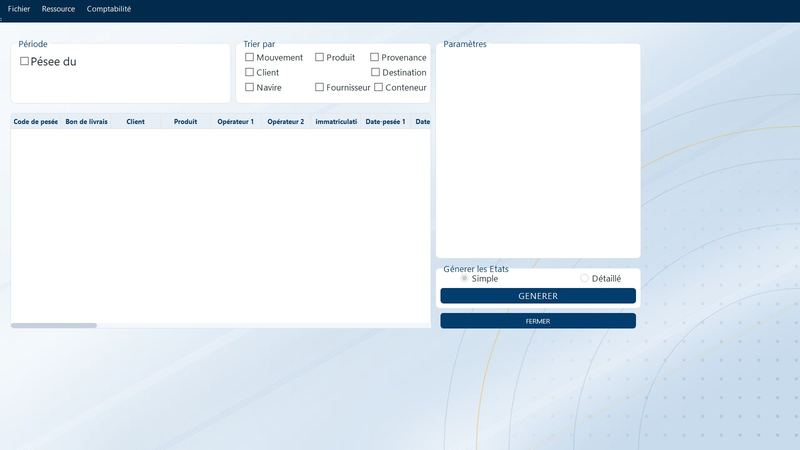
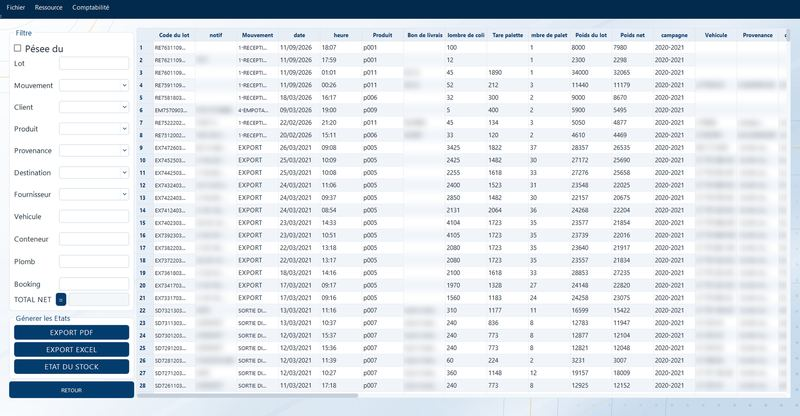
SoftWEIGHT : captures structurees en version Pesage par lot en usine + module comptable
Retrait des vues pont-bascule et pesees en attente ; nouvelle capture des
etats (colonnes nominatives floutees) ; galerie generique par version
(data-set) pour accueillir la version pont-bascule.

Claude-Session: https://claude.ai/code/session_018ie5uL5v7D66H8UK9hWu6d

diff --git a/kenjitech/softweight/assets/sw.js b/kenjitech/softweight/assets/sw.js
@@ -138,15 +138,12 @@ $('#demoForm').addEventListener('submit',e=>{e.preventDefault();const f=e.target
 const lines=[...f.querySelectorAll('input,select,textarea')].filter(x=>x.value.trim()).map(x=>{const l=x.closest('label');return (l?l.childNodes[0].textContent.trim():x.name)+' : '+x.value.trim()});
 const txt='Bonjour KENJITECH,\n'+lines.join('\n');window.open('https://wa.me/237697787475?text='+encodeURIComponent(txt),'_blank','noopener');
 const s=$('#sent');s.hidden=false;s.innerHTML='Merci. WhatsApp s\'ouvre avec votre demande déjà rédigée : il ne reste qu\'à l\'envoyer. Vous pouvez aussi écrire à <a href="mailto:contact@kenjitech.org?cc=kenjikarim@gmail.com&subject='+encodeURIComponent('Demande depuis le site')+'&body='+encodeURIComponent(txt)+'">contact@kenjitech.org</a>.'});
-(function(){const box=document.getElementById('captures');if(!box)return;
-const D='assets/captures/',G={
-pesage:[
+(function(){const D='assets/captures/',SETS={
+lot:{pesage:[
 {f:['sw-lot-pesee-968kg','sw-lot-pesee-1845kg','sw-lot-pesee-2730kg','sw-lot-pesee-3567kg'],t:'Pesée par lot sur balance',d:"L'afficheur suit la charge en direct : ici de 968 kg à 3 567 kg. On valide le poids, puis on enregistre le lot."},
-{f:['sw-pont-pesee-1845kg','sw-pont-pesee-3567kg'],t:'Pesée sur pont-bascule',d:'Bon de livraison, mouvement, client, fournisseur, produit, conteneur : la pesée se remplit, le poids arrive de l’indicateur.'},
 {f:['sw-lots'],t:'Lots et palettes',d:'Chaque lot garde ses palettes, ses tares, ses sacs et son poids net, avec la date et l’heure de chaque mouvement.'},
-{f:['sw-rapports-pesees'],t:'Rapport des pesées',d:'Filtres par période, lot, client, produit, provenance, destination ou conteneur, puis export PDF ou Excel.'},
-{f:['sw-pont-liste-pesees'],t:'Pesées en attente et complétées',d:'Les pesées ouvertes et terminées du jour, avec la recherche par numéro.'},
-{f:['sw-etats'],t:'États',d:'Générer les états simples ou détaillés, triés par mouvement, client, produit, navire ou conteneur.'},
+{f:['sw-rapports-pesees'],t:'Rapport des pesées par lot',d:'Filtres par période, lot, client, produit, provenance, destination ou conteneur, puis export PDF ou Excel.'},
+{f:['sw-etats'],t:'États des lots',d:'Tous les mouvements de lots : réception, empotage, export, sorties, avec sacs, tares, poids du lot et poids net, puis export PDF, Excel ou état du stock.'},
 {f:['sw-stock'],t:'État du stock',d:'Reçu, expédié et stock actuel en kilogrammes, mis à jour à chaque lot.'},
 {f:['sw-accueil'],t:'Accueil',d:'Après connexion de l’opérateur : le pesage, les états et la configuration.'}],
 compta:[
@@ -155,18 +152,20 @@ compta:[
 {f:['sw-compta-generale-fournisseurs'],t:'Comptes fournisseurs',d:'Montants livrés et financements reçus par fournisseur.'},
 {f:['sw-facturation'],t:'Facturation des lots',d:'Coût unitaire au kilo, coût total, coût moyen : la facture se calcule à partir du poids net du lot.'},
 {f:['sw-financements-clients'],t:'Financements clients',d:'Préfinancements et financements donnés, avec leur historique et le total.'},
-{f:['sw-financements-fournisseurs'],t:'Financements fournisseurs',d:'Financements reçus des fournisseurs et corrections.'}]};
-const img=document.getElementById('capImg'),tt=document.getElementById('capTitle'),tx=document.getElementById('capTxt'),th=document.getElementById('capThumbs'),dlg=document.getElementById('capBox');
-const reduce=matchMedia('(prefers-reduced-motion: reduce)').matches;let g='pesage',cur=0,timer=null,k=0;
-// précharge les images animées
-G.pesage[0].f.concat(G.pesage[1].f).forEach(n=>{const i=new Image();i.src=D+n+'.jpg'});
-function show(i){cur=i;const it=G[g][i];k=0;clearInterval(timer);img.src=D+it.f[0]+'.jpg';img.alt='SoftWEIGHT : '+it.t;tt.textContent=it.t;tx.textContent=it.d;
+{f:['sw-financements-fournisseurs'],t:'Financements fournisseurs',d:'Financements reçus des fournisseurs et corrections.'}]}};
+window.SW_CAPS=SETS;
+const dlg=document.getElementById('capBox'),reduce=matchMedia('(prefers-reduced-motion: reduce)').matches;
+if(dlg){dlg.querySelector('.cap-x').onclick=()=>dlg.close();dlg.addEventListener('click',e=>{if(e.target===dlg)dlg.close()})}
+document.querySelectorAll('.cap-set').forEach(box=>{const G=SETS[box.dataset.set];if(!G)return;
+const img=box.querySelector('.cap-img'),tt=box.querySelector('.cap-title'),tx=box.querySelector('.cap-txt'),th=box.querySelector('.cap-thumbs');
+let g=Object.keys(G)[0],timer=null,k=0;
+Object.values(G).forEach(a=>a.forEach(it=>{if(it.f.length>1)it.f.forEach(n=>{const i=new Image();i.src=D+n+'.jpg'})}));
+function show(i){const it=G[g][i];k=0;clearInterval(timer);img.src=D+it.f[0]+'.jpg';img.alt='SoftWEIGHT, logiciel de pesage : '+it.t;tt.textContent=it.t;tx.textContent=it.d;
 th.querySelectorAll('button').forEach((b,j)=>b.setAttribute('aria-current',j===i));
 if(it.f.length>1&&!reduce)timer=setInterval(()=>{k=(k+1)%it.f.length;img.src=D+it.f[k]+'.jpg'},1400)}
 function build(){th.innerHTML='';G[g].forEach((it,i)=>{const b=document.createElement('button');b.type='button';b.setAttribute('role','listitem');
 b.innerHTML='<img src="'+D+'mini/'+it.f[it.f.length-1]+'.jpg" alt="" loading="lazy" width="800" height="450"><span></span>';b.querySelector('span').textContent=it.t;b.onclick=()=>show(i);th.appendChild(b)});show(0)}
 box.querySelectorAll('.cap-tabs button').forEach(b=>b.onclick=()=>{box.querySelectorAll('.cap-tabs button').forEach(x=>x.setAttribute('aria-selected',x===b));g=b.dataset.g;build()});
-document.getElementById('capZoom').onclick=()=>{if(!dlg||!dlg.showModal){window.open(img.src,'_blank','noopener');return}
+box.querySelector('.cap-zoom').onclick=()=>{if(!dlg||!dlg.showModal){window.open(img.src,'_blank','noopener');return}
 dlg.querySelector('img').src=img.src;dlg.querySelector('img').alt=img.alt;dlg.querySelector('p').textContent=tt.textContent+' : '+tx.textContent;dlg.showModal()};
-if(dlg){dlg.querySelector('.cap-x').onclick=()=>dlg.close();dlg.addEventListener('click',e=>{if(e.target===dlg)dlg.close()})}
-build()})();
+build()})})();

diff --git a/kenjitech/softweight/index.html b/kenjitech/softweight/index.html
@@ -248,15 +248,17 @@
 </div>
 <div class="ver-note rv"><b>On commence petit,<br>on grandit sans changer.</b><p>Passer du monoposte au multiposte, ajouter un pont ou activer l'option web se fait sur la même installation. Les données et l'historique sont conservés.</p></div>
 <div class="caps" id="captures">
-<div class="sec-head rv"><p class="eyebrow">Captures d'écran réelles</p><h2>SoftWEIGHT en usine : pesage par lot et gestion comptable</h2>
-<p class="lead">Voici la version de SoftWEIGHT utilisée en usine pour le pesage par lot, avec sa gestion comptable intégrée. Toutes les images sont des captures du logiciel en fonctionnement : l'afficheur de poids, les lots, les états, le stock, la comptabilité générale, la facturation et les financements.</p></div>
-<div class="cap-tabs" role="tablist" aria-label="Choisir un module">
+<div class="sec-head rv"><p class="eyebrow">Captures d'écran réelles</p><h2>SoftWEIGHT Pesage par lot en usine</h2>
+<p class="lead">La version de SoftWEIGHT pour le pesage par lot en usine : pesée des lots et palettes sur balance ou pèse-palette, suivi des lots, rapports, états et stock. Elle peut recevoir le module optionnel de gestion comptable : caisse, comptes clients et fournisseurs, facturation des lots et financements. Toutes les images sont des captures du logiciel en fonctionnement.</p></div>
+<div class="cap-set" data-set="lot">
+<div class="cap-tabs" role="tablist" aria-label="Choisir une partie du logiciel">
 <button type="button" role="tab" aria-selected="true" data-g="pesage">Pesage par lot</button>
-<button type="button" role="tab" aria-selected="false" data-g="compta">Gestion comptable</button>
+<button type="button" role="tab" aria-selected="false" data-g="compta">Module gestion comptable (option)</button>
 </div>
-<figure class="cap-main"><button type="button" class="cap-zoom" id="capZoom" aria-label="Agrandir la capture"><img id="capImg" src="assets/captures/sw-lot-pesee-968kg.jpg" alt="SoftWEIGHT, écran de pesée par lot avec afficheur de poids" width="1600" height="900" loading="lazy" decoding="async"></button>
-<figcaption><b id="capTitle">Pesée par lot sur balance</b><span id="capTxt">L'afficheur suit la charge en direct : ici de 968 kg à 3 567 kg. On valide le poids, puis on enregistre le lot.</span></figcaption></figure>
-<div class="cap-thumbs" id="capThumbs" role="list"></div>
+<figure class="cap-main"><button type="button" class="cap-zoom" aria-label="Agrandir la capture"><img class="cap-img" src="assets/captures/sw-lot-pesee-968kg.jpg" alt="SoftWEIGHT, logiciel de pesage par lot : écran de pesée sur balance avec afficheur de poids" width="1600" height="900" loading="lazy" decoding="async"></button>
+<figcaption><b class="cap-title">Pesée par lot sur balance</b><span class="cap-txt">L'afficheur suit la charge en direct : ici de 968 kg à 3 567 kg. On valide le poids, puis on enregistre le lot.</span></figcaption></figure>
+<div class="cap-thumbs" role="list"></div>
+</div>
 </div>
 </div>
 </section>
